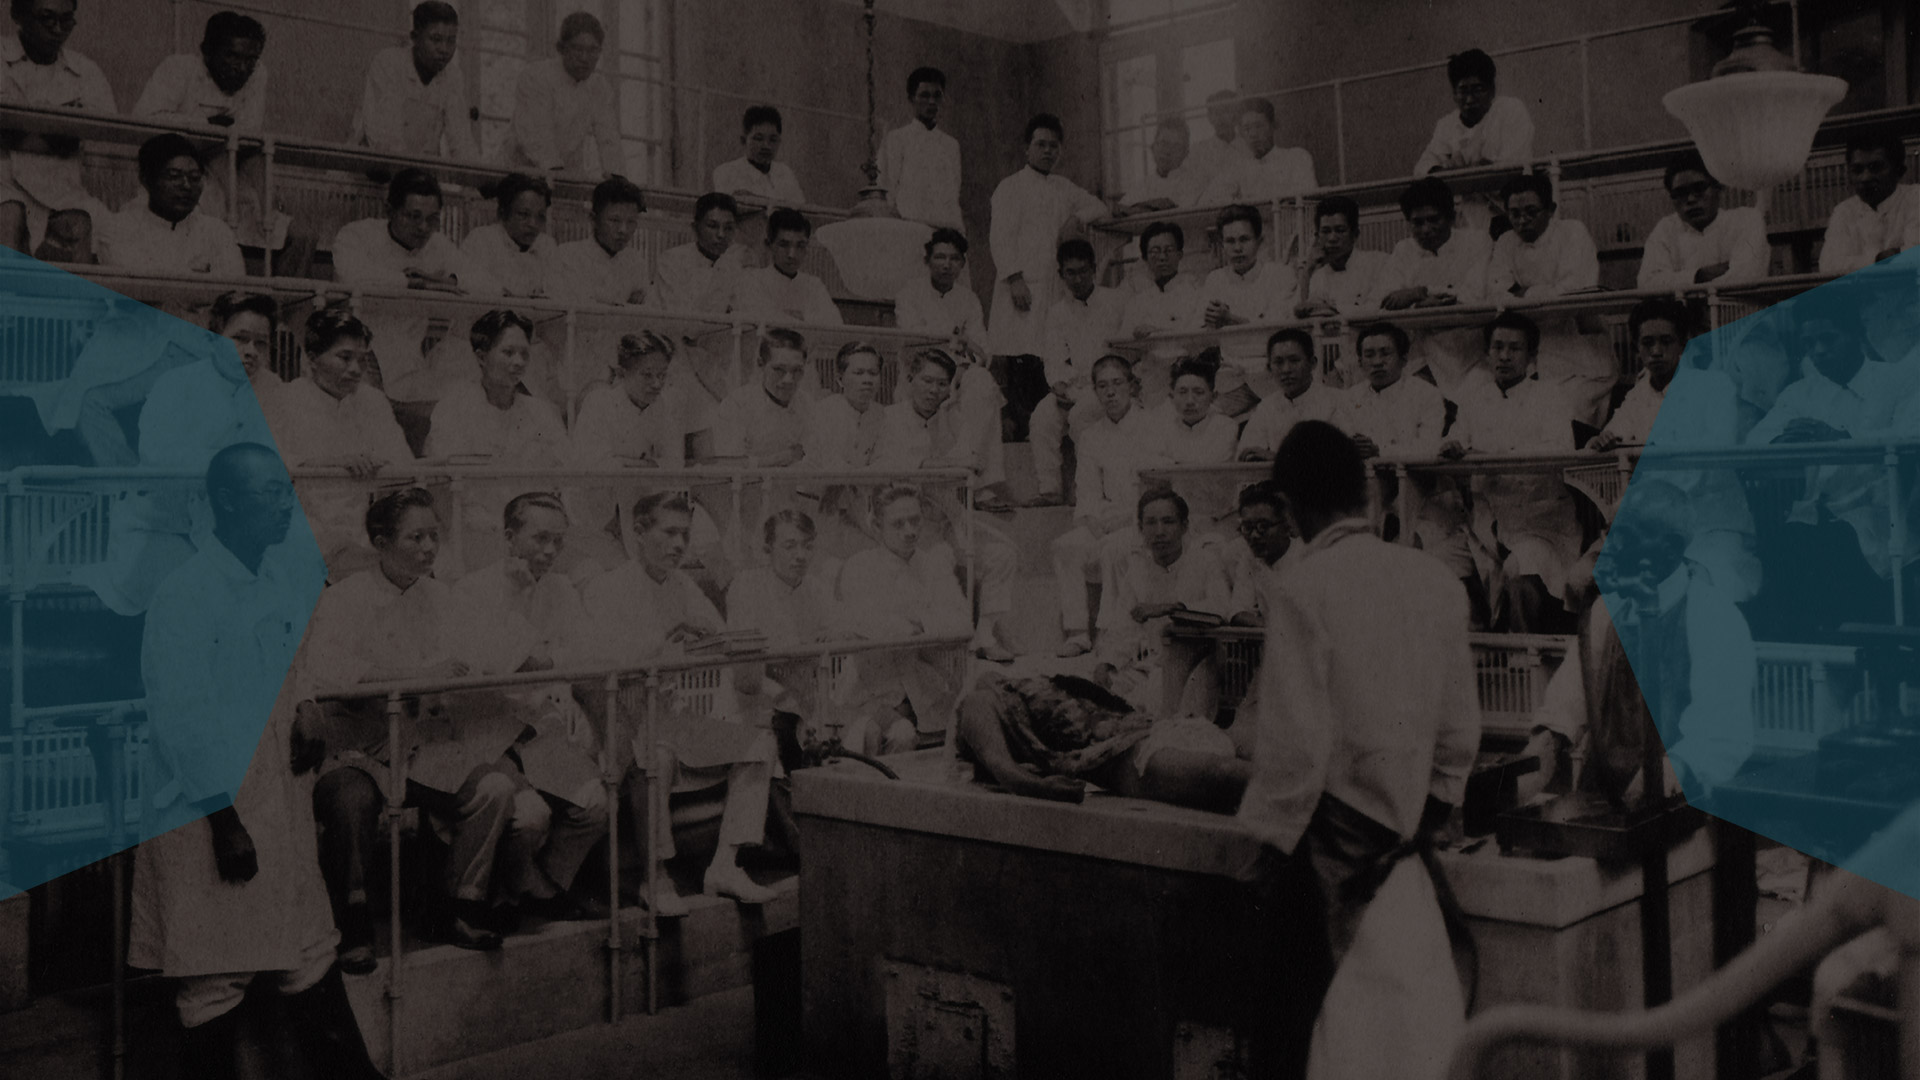
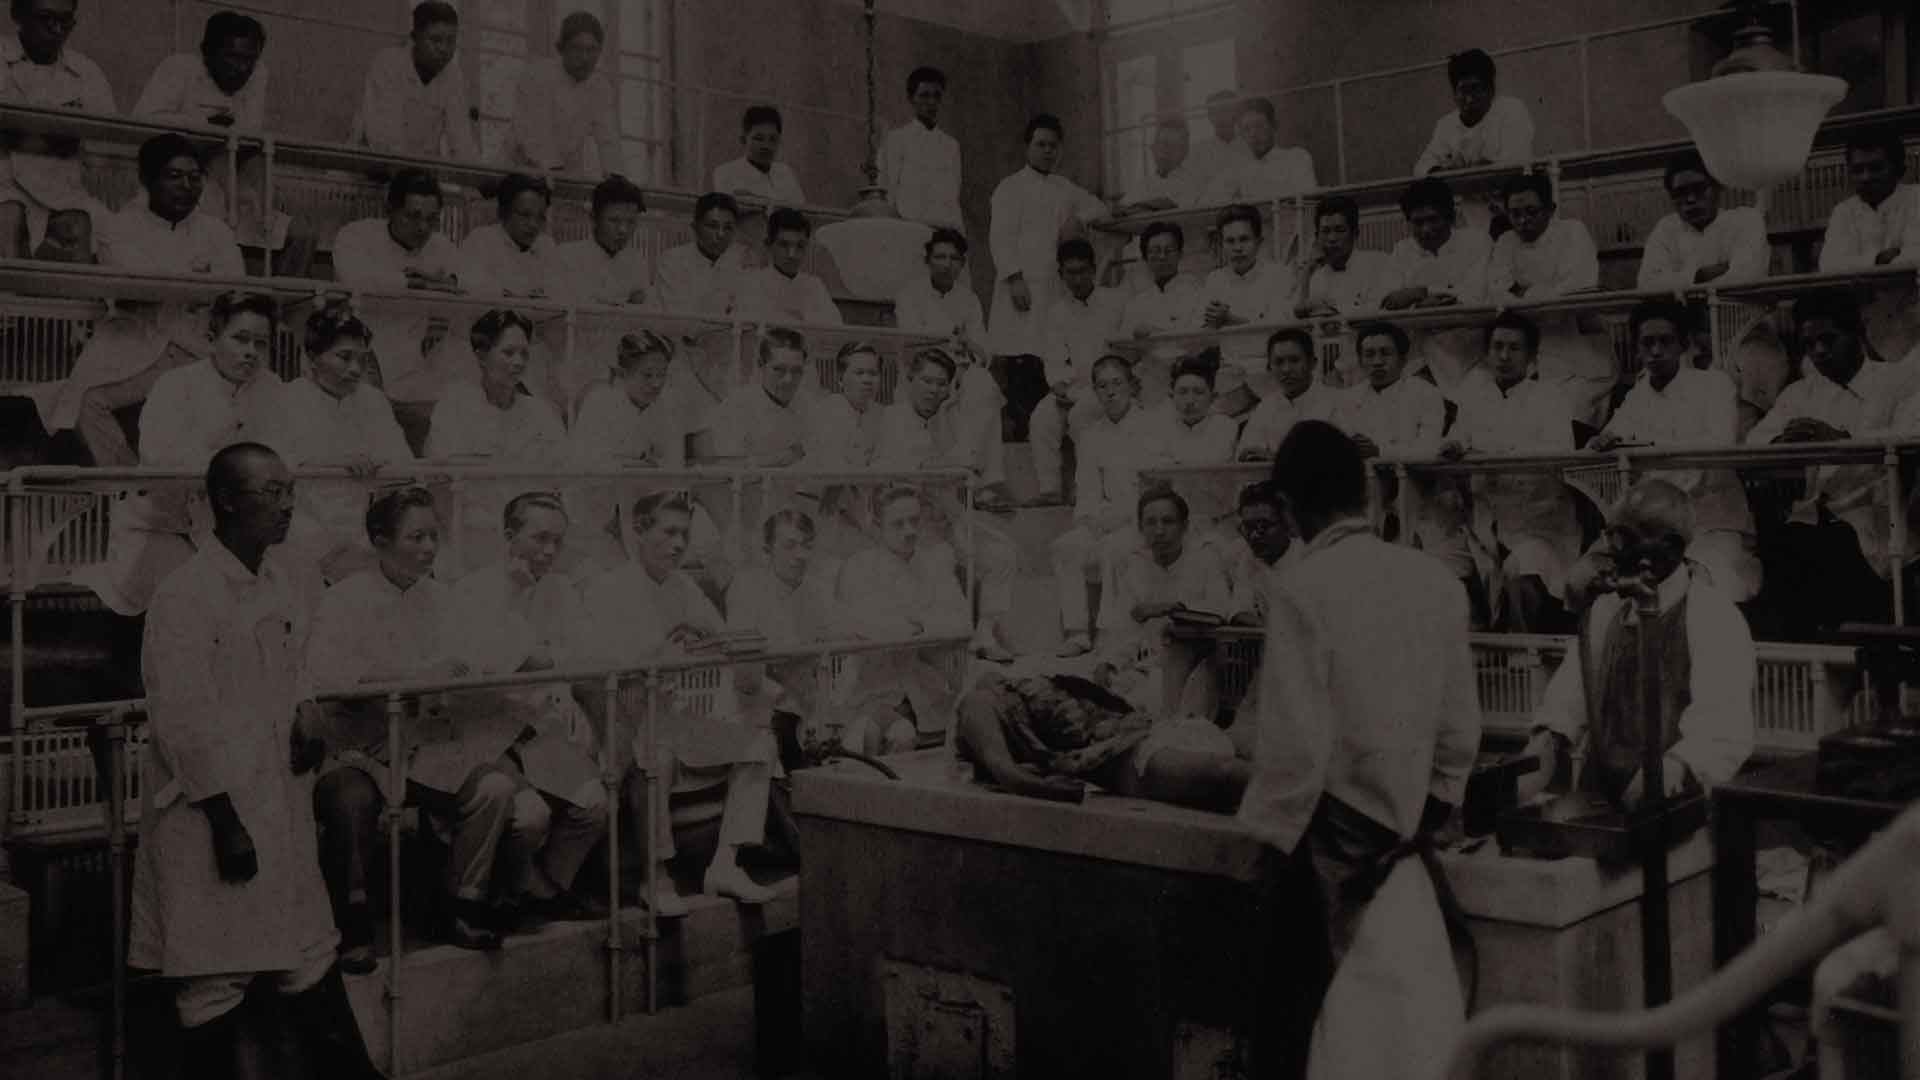
第一階段選擇題第五題 hover

Changed region(s): [[0.0, 0.2139, 0.1875, 0.825], [0.8125, 0.2139, 1.0, 0.825]]

diff --git a/questions1.html b/questions1.html
@@ -32,6 +32,7 @@
 		<link rel="stylesheet" href="bootstrap/dist/css/bootstrap-custom.min.css" />
 		<link rel="stylesheet" href="lib/linecons/style.css" />
 		<link rel="stylesheet" href="styles/style.css" />
+		<link rel="stylesheet" href="styles/questions.css" />
 		<link rel="stylesheet" href="theme-custom.css" />
 		<link rel="shortcut icon" href="" type="image/x-icon" />
 	</head>
@@ -267,11 +268,17 @@
 				<img alt class="bg" src="images/bg/questions1-5x2.jpg" />
 				<div class="content home-lynda full-size colors-b background-0">
 					<!--<img alt class="bg" src="images/questions/q1-5-left.png" />-->
+					<div class="q5-left-button visible-lg-block visible-md-block">
+						<a href="#q6"><h3 class="col-md-12 semi-bold-font-weight" style="padding:15px;">當<br />然<br />會</h3></a>
+					</div>
+					<div class="q5-right-button visible-lg-block visible-md-block">
+						<a href="#q6"><h3 class="col-md-12 semi-bold-font-weight" style="padding:15px;">可<br />能<br />吧</h3></a>
+					</div>
 					<div class="container">
 						
 						<div class="row">
 							<div class="col-md-3 visible-lg-block visible-md-block">
-								<a href="#q6"><h3 class="text-left semi-bold-font-weight" style="padding-top:30%;">當<br />然<br />會</h3></a>
+								<!-- <a href="#q6"><h3 class="text-left semi-bold-font-weight" style="padding-top:30%;">當<br />然<br />會</h3></a> -->
 							</div>
 							<div class="col-md-6 text-center">
 								<h4 class="semi-bold-font-weight">這是一個擁有部份歷史考據的科幻故事。</h4>
@@ -280,7 +287,7 @@
 								<h4 class="semi-bold-font-weight">當你了解這些，你會更喜歡這個故事嗎？</h4>
 							</div>
 							<div class="col-md-3 visible-lg-block visible-md-block">
-								<a href="#q6"><h3 class="text-right semi-bold-font-weight" style="padding-top:30%;">可<br />能<br />吧</h3></a>
+								<!-- <a href="#q6"><h3 class="text-right semi-bold-font-weight" style="padding-top:30%;">可<br />能<br />吧</h3></a> -->
 							</div>
 							<div class="col-md-12 hidden-md hidden-lg">
 								<a href="#q6"><h4 class="col-md-12 border-bottom semi-bold-font-weight" style="padding:15px;">當然會</h4></a>

diff --git a/styles/questions.css b/styles/questions.css
@@ -1,4 +1,5 @@
 @media screen and ( min-width: 992px ){
+	/*question2*/
 	/*hover*/
 	.question2-1:hover >div{
 		background-color: rgba(20, 20, 20, 0.6) !important;
@@ -219,6 +220,69 @@
 	    border-radius: 50%;
 	    border: 1px solid rgba(255,255,255,.5);
 	    opacity: 0;
+	}
+
+	/*question1*/
+	/*hover*/
+	.q5-left-button:hover:before,
+	.q5-right-button:hover:before{
+		background-color: rgba(46,72,79,.9);
+		transition: .5s;
+	}
+	.q5-left-button:hover > a > h3,
+	.q5-right-button:hover > a > h3{
+		color: rgba(255,255,255,1);
+		font-weight: bold;
+		transform: scale(1.1);
+		transition: .5s;
+	}
+
+	.q5-left-button{
+		position: absolute;
+	    margin: auto;
+	    left: 50px;
+	    cursor: pointer;
+	}
+	.q5-right-button{
+		position: absolute;
+	    margin: auto;
+	    right: 50px;
+	    cursor: pointer;
+	}
+	.q5-left-button > a > h3,
+	.q5-right-button > a > h3{
+		color: rgba(255,255,255,.3);
+		transition: .5s;
+	}
+	.q5-left-button:before{
+		content: '';
+		display: block;
+		width: 500px;
+		height: 500px;
+		top: 0;
+		bottom: 0;
+		left: -300px;
+		margin: auto;
+		background-color: rgba(46,72,79,.6);
+		position: absolute;
+		-webkit-clip-path: polygon(50% 0%, 85% 15%, 100% 50%, 85% 85%, 50% 100% , 15% 85%, 0% 50%, 15% 15%);
+		clip-path: polygon(50% 0%, 85% 15%, 100% 50%, 85% 85%, 50% 100% , 15% 85%, 0% 50%, 15% 15%);
+		transition: .5s;
+	}
+	.q5-right-button:before{
+		content: '';
+		display: block;
+		width: 500px;
+		height: 500px;
+		top: 0;
+		bottom: 0;
+		right: -300px;
+		margin: auto;
+		background-color: rgba(46,72,79,.6);
+		position: absolute;
+		-webkit-clip-path: polygon(50% 0%, 85% 15%, 100% 50%, 85% 85%, 50% 100% , 15% 85%, 0% 50%, 15% 15%);
+		clip-path: polygon(50% 0%, 85% 15%, 100% 50%, 85% 85%, 50% 100% , 15% 85%, 0% 50%, 15% 15%);
+		transition: .5s;
 	}
 }
 @media screen and ( max-width: 1199px ){
